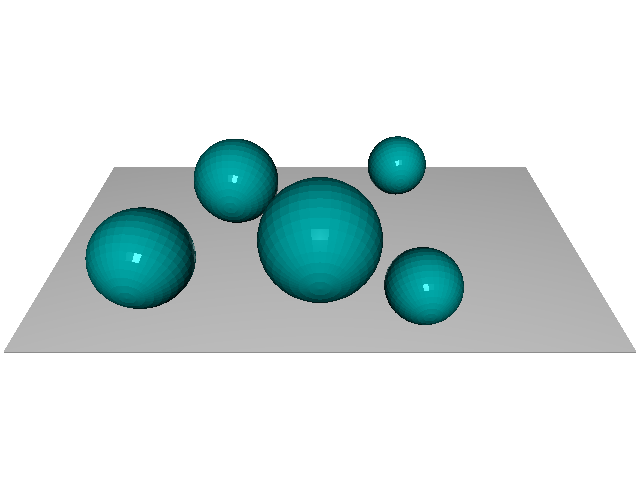
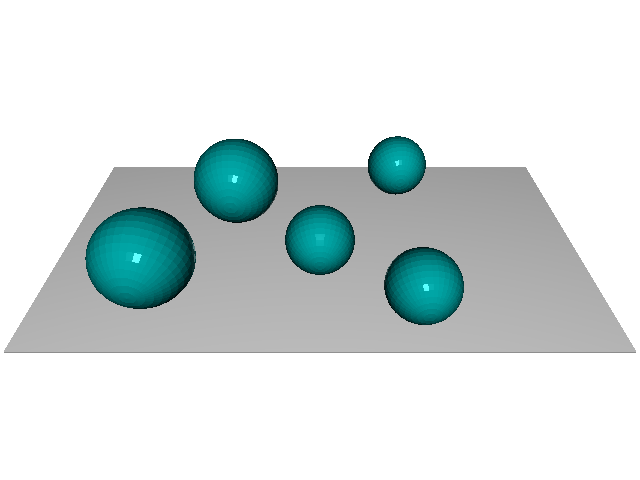
task 5

Changed region(s): [[0.375, 0.3438, 0.625, 0.6562]]

diff --git a/calway/Lab5-3D-from-stereo/LabI-v2.py b/calway/Lab5-3D-from-stereo/LabI-v2.py
@@ -124,8 +124,8 @@ if __name__ == '__main__':
     mesh_list.append(sph_mesh)
     H_list.append(np.array(
         [[1, 0, 0, 0],
-         [0, 1, 0, 14.1421/2],
-         [0, 0, 1, 14.1421/2],
+         [0, 1, 0, 1.5],
+         [0, 0, 1, 1.5],
          [0, 0, 0, 1]]
     ))
     RGB_list.append([0., 0.5, 0.5])
